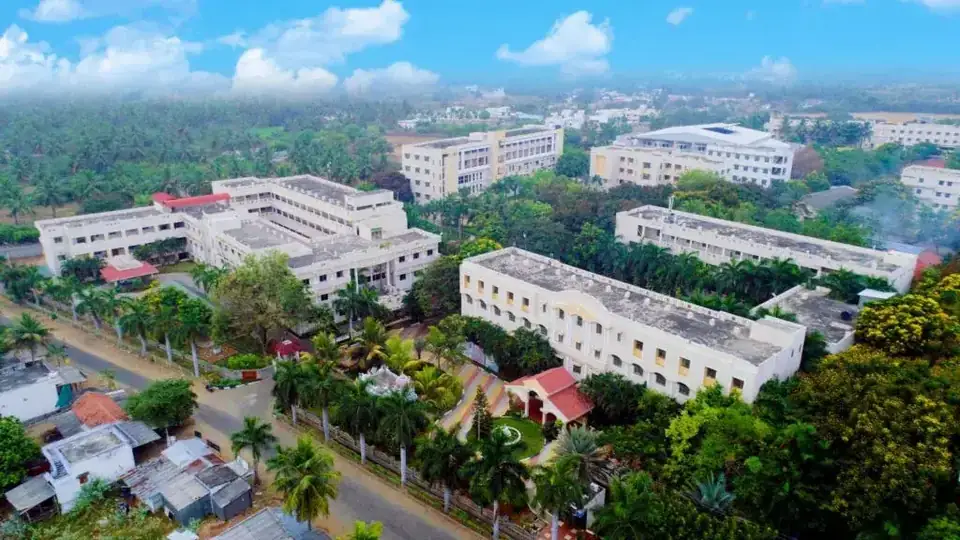
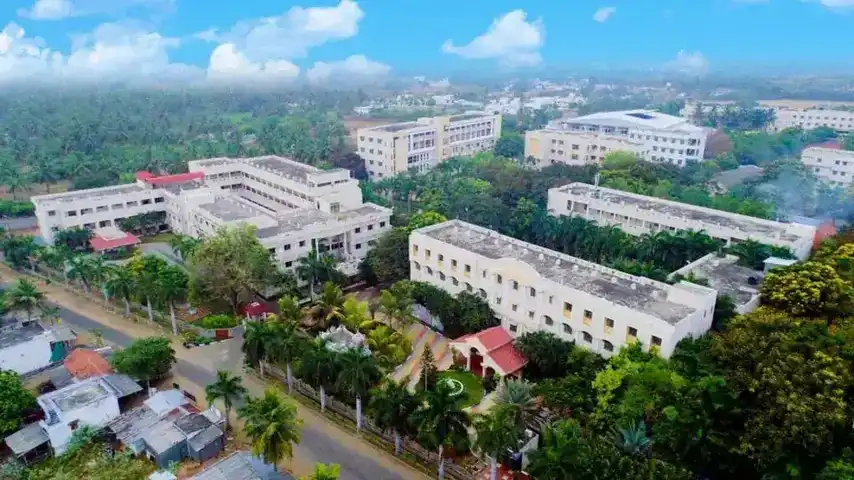
perf(gtmetrix): optimize desktop LCP image size, add dns-prefetch and fetchpriority=high

Changed region(s): [[0.9742, 0.5625, 1.0, 0.5938], [0.9133, 0.5938, 0.9438, 0.625]]

diff --git a/frontend/index.html b/frontend/index.html
@@ -35,14 +35,16 @@
   <meta name="msapplication-navbutton-color" content="#ffffff" />
 
   <!-- Google Fonts — Single high-performance connection with font-display swap -->
+  <link rel="dns-prefetch" href="https://fonts.googleapis.com">
+  <link rel="dns-prefetch" href="https://fonts.gstatic.com">
   <link rel="preconnect" href="https://fonts.googleapis.com">
   <link rel="preconnect" href="https://fonts.gstatic.com" crossorigin>
   <link rel="stylesheet" href="https://fonts.googleapis.com/css2?family=Inter:wght@400;500;600;700&display=swap">
 
-  <!-- LCP Asset Preloading (WebP Only) -->
-  <link rel="preload" as="image" href="/nec_25_logo.webp" type="image/webp">
-  <link rel="preload" as="image" href="/nandha_aerial_bg_mobile.webp" type="image/webp" media="(max-width: 768px)">
-  <link rel="preload" as="image" href="/nandha_aerial_bg.webp" type="image/webp" media="(min-width: 769px)">
+  <!-- LCP Asset Preloading (WebP Only with fetchpriority=high) -->
+  <link rel="preload" as="image" href="/nec_25_logo.webp" type="image/webp" fetchpriority="high">
+  <link rel="preload" as="image" href="/nandha_aerial_bg_mobile.webp" type="image/webp" media="(max-width: 768px)" fetchpriority="high">
+  <link rel="preload" as="image" href="/nandha_aerial_bg.webp" type="image/webp" media="(min-width: 769px)" fetchpriority="high">
 
 
   <!-- SEO / Page Metadata -->
